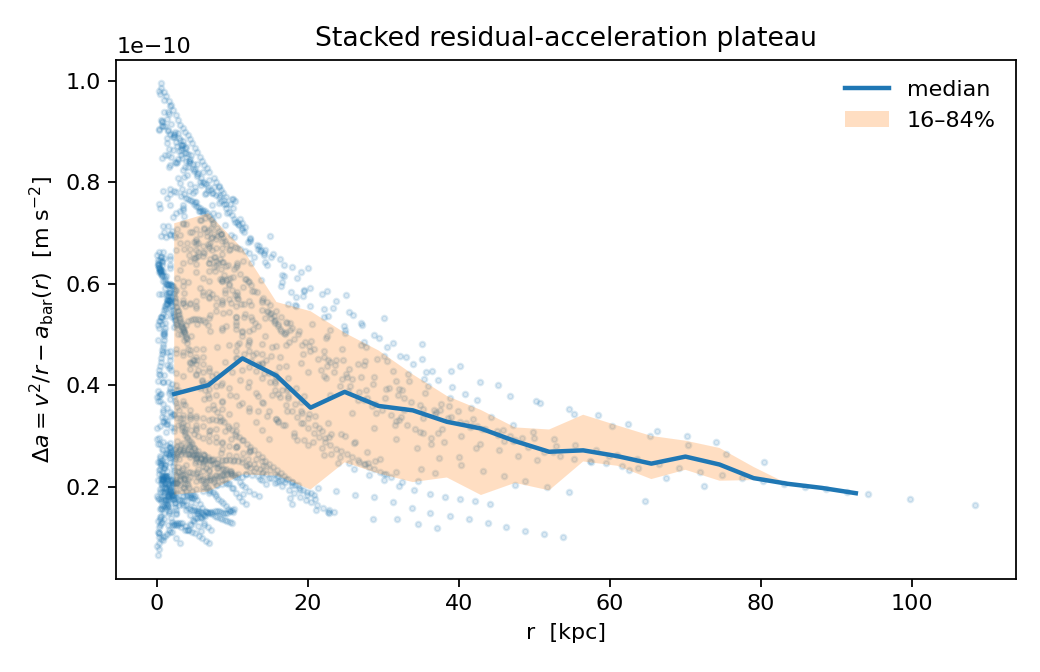
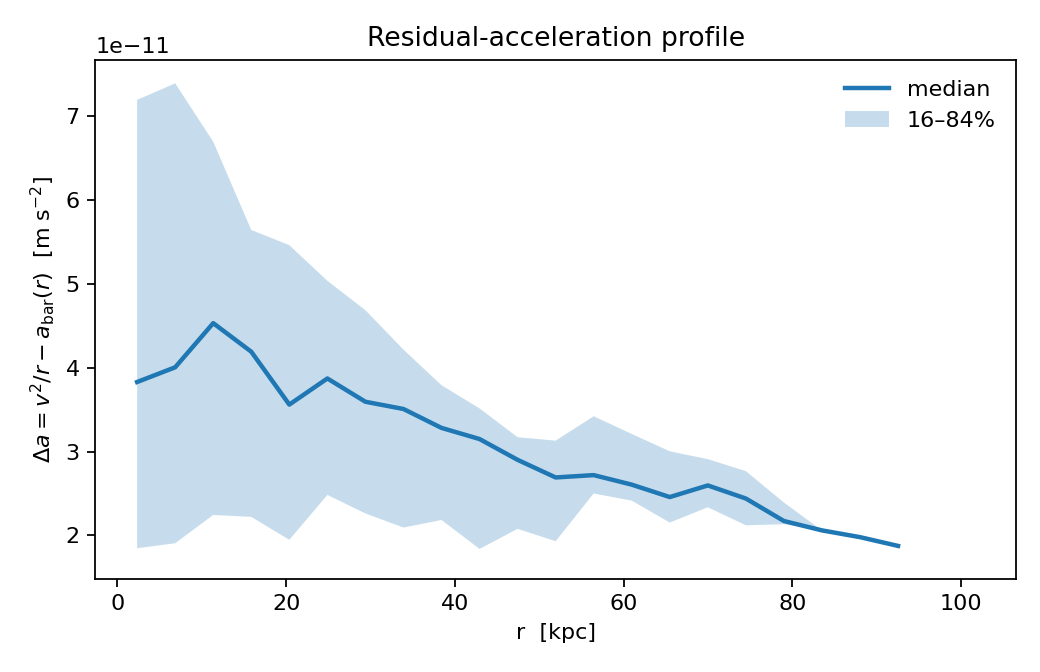
update

diff --git a/results/paper_submission_ptqnu_20260323/04_robustness/multiseed_robustness_table.tex b/results/paper_submission_ptqnu_20260323/04_robustness/multiseed_robustness_table.tex
@@ -2,6 +2,7 @@
 \toprule
 Model & AIC$_{\mathrm{full}}$ median$\pm$std & BIC$_{\mathrm{full}}$ median$\pm$std & WAIC median$\pm$std & LOOIC median$\pm$std \\
 \midrule
+ptq-nu & 13768.8$\pm$18.3 & 14278.9$\pm$18.3 & 15089.4$\pm$19.1 & 15106.3$\pm$23.4 \\
 ptq-screen & 13796.4$\pm$19.7 & 14312.0$\pm$19.7 & 15318.1$\pm$68.6 & 15351.8$\pm$76.8 \\
 mond & 13771.0$\pm$11.4 & 14281.1$\pm$11.4 & 15126.7$\pm$46.7 & 15136.2$\pm$48.5 \\
 mond-screen & 13762.7$\pm$25.5 & 14278.4$\pm$25.5 & 15157.1$\pm$70.5 & 15173.8$\pm$79.9 \\

diff --git a/results/revision_robustness_core_multiseed12000/aggregate/multiseed_robustness_table.tex b/results/revision_robustness_core_multiseed12000/aggregate/multiseed_robustness_table.tex
@@ -2,6 +2,7 @@
 \toprule
 Model & AIC$_{\mathrm{full}}$ median$\pm$std & BIC$_{\mathrm{full}}$ median$\pm$std & WAIC median$\pm$std & LOOIC median$\pm$std \\
 \midrule
+ptq-nu & 13768.8$\pm$18.3 & 14278.9$\pm$18.3 & 15089.4$\pm$19.1 & 15106.3$\pm$23.4 \\
 ptq-screen & 13796.4$\pm$19.7 & 14312.0$\pm$19.7 & 15318.1$\pm$68.6 & 15351.8$\pm$76.8 \\
 mond & 13771.0$\pm$11.4 & 14281.1$\pm$11.4 & 15126.7$\pm$46.7 & 15136.2$\pm$48.5 \\
 mond-screen & 13762.7$\pm$25.5 & 14278.4$\pm$25.5 & 15157.1$\pm$70.5 & 15173.8$\pm$79.9 \\

diff --git a/src/ptquat/plotting.py b/src/ptquat/plotting.py
@@ -60,7 +60,7 @@ def plot_residual_plateau(df_points, df_binned, outpath: Path):
     ax.set_xlabel("r  [kpc]")
     ax.set_ylabel(r"$\Delta a = v^2/r - a_{\rm bar}(r)$  [m s$^{-2}$]")
     ax.legend(loc="best", frameon=False)
-    ax.set_title("Stacked residual-acceleration plateau")
+    ax.set_title("Residual-acceleration profile")
     fig.tight_layout()
     fig.savefig(outpath, dpi=160)
     plt.close(fig)

diff --git a/results/paper_submission_ptqnu_20260323/04_robustness/multiseed_summary.md b/results/paper_submission_ptqnu_20260323/04_robustness/multiseed_summary.md
@@ -5,12 +5,15 @@
 
 ## Rank stability (WAIC / LOO)
 
+- `ptq-nu`: WAIC rank mean ≈ 1.3333333333333333, std ≈ 0.4714045207910317; LOO rank mean ≈ 1.3333333333333333, std ≈ 0.4714045207910317 (n_seeds = 3).
 - `ptq-screen`: WAIC rank mean ≈ 3.6666666666666665, std ≈ 0.4714045207910317; LOO rank mean ≈ 3.6666666666666665, std ≈ 0.4714045207910317 (n_seeds = 3).
 - `mond`: WAIC rank mean ≈ 2.3333333333333335, std ≈ 1.247219128924647; LOO rank mean ≈ 2.3333333333333335, std ≈ 1.247219128924647 (n_seeds = 3).
 - `mond-screen`: WAIC rank mean ≈ 2.6666666666666665, std ≈ 0.4714045207910317; LOO rank mean ≈ 2.6666666666666665, std ≈ 0.4714045207910317 (n_seeds = 3).
 
 ## Seed sensitivity for key models
 
+- `ptq-nu` WAIC across seeds: min ≈ 15057.4, max ≈ 15102.8, spread ≈ 45.4.
+  LOOIC across seeds: min ≈ 15075.0, max ≈ 15132.2, spread ≈ 57.2.
 - `ptq-screen` WAIC across seeds: min ≈ 15175.2, max ≈ 15323.3, spread ≈ 148.1.
   LOOIC across seeds: min ≈ 15189.3, max ≈ 15352.6, spread ≈ 163.3.
 - `mond` WAIC across seeds: min ≈ 15081.3, max ≈ 15195.0, spread ≈ 113.7.

diff --git a/results/revision_robustness_core_multiseed12000/aggregate/multiseed_summary.md b/results/revision_robustness_core_multiseed12000/aggregate/multiseed_summary.md
@@ -5,12 +5,15 @@
 
 ## Rank stability (WAIC / LOO)
 
+- `ptq-nu`: WAIC rank mean ≈ 1.3333333333333333, std ≈ 0.4714045207910317; LOO rank mean ≈ 1.3333333333333333, std ≈ 0.4714045207910317 (n_seeds = 3).
 - `ptq-screen`: WAIC rank mean ≈ 3.6666666666666665, std ≈ 0.4714045207910317; LOO rank mean ≈ 3.6666666666666665, std ≈ 0.4714045207910317 (n_seeds = 3).
 - `mond`: WAIC rank mean ≈ 2.3333333333333335, std ≈ 1.247219128924647; LOO rank mean ≈ 2.3333333333333335, std ≈ 1.247219128924647 (n_seeds = 3).
 - `mond-screen`: WAIC rank mean ≈ 2.6666666666666665, std ≈ 0.4714045207910317; LOO rank mean ≈ 2.6666666666666665, std ≈ 0.4714045207910317 (n_seeds = 3).
 
 ## Seed sensitivity for key models
 
+- `ptq-nu` WAIC across seeds: min ≈ 15057.4, max ≈ 15102.8, spread ≈ 45.4.
+  LOOIC across seeds: min ≈ 15075.0, max ≈ 15132.2, spread ≈ 57.2.
 - `ptq-screen` WAIC across seeds: min ≈ 15175.2, max ≈ 15323.3, spread ≈ 148.1.
   LOOIC across seeds: min ≈ 15189.3, max ≈ 15352.6, spread ≈ 163.3.
 - `mond` WAIC across seeds: min ≈ 15081.3, max ≈ 15195.0, spread ≈ 113.7.
